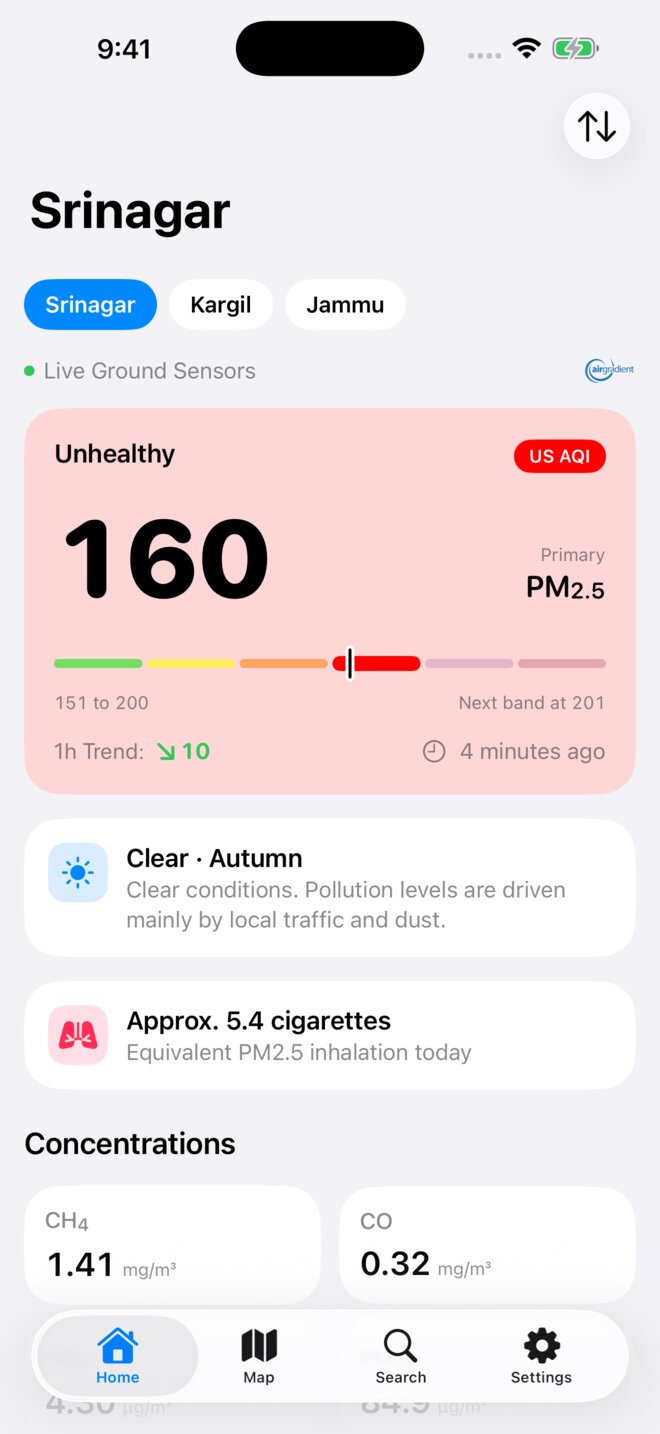
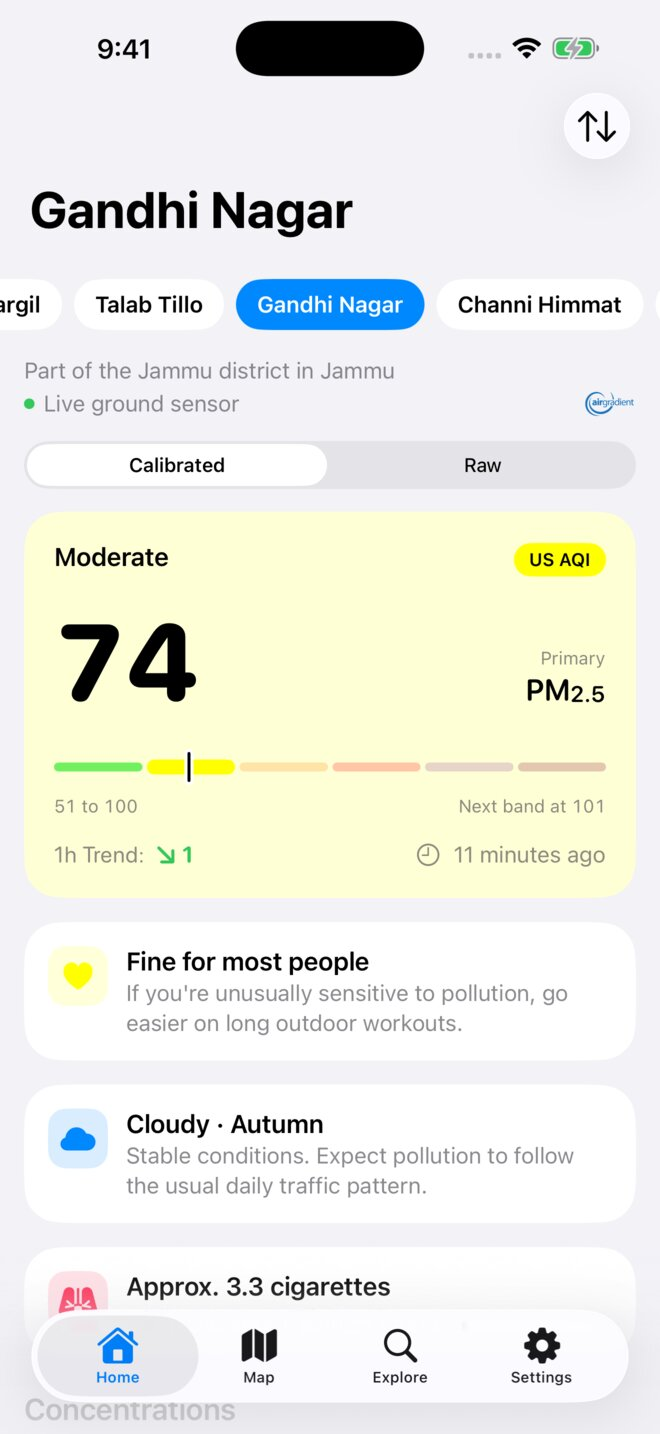
breathe-ios: docs: refresh readme for sensor zones and raw readings
- six new shots from the simulator run

diff --git a/README.md b/README.md
@@ -11,6 +11,8 @@
   <img src="assets/screenshot-2.jpg" alt="Screenshot 2" width="200" style="border-radius:26px;"/>
   <img src="assets/screenshot-3.jpg" alt="Screenshot 3" width="200" style="border-radius:26px;"/>
   <img src="assets/screenshot-4.jpg" alt="Screenshot 4" width="200" style="border-radius:26px;"/>
+  <img src="assets/screenshot-5.jpg" alt="Screenshot 5" width="200" style="border-radius:26px;"/>
+  <img src="assets/screenshot-6.jpg" alt="Screenshot 6" width="200" style="border-radius:26px;"/>
 </p>
 
 > **Note:** This repository is specifically for the **iOS** version of Breathe. If you are looking for the original Android version, please visit the [Breathe (Android) repository](https://github.com/breathe-OSS/breathe).
@@ -30,10 +32,11 @@
 - **Native iOS design** with cards, Dynamic Type, and light and dark mode
 - **US AQI and Indian NAQI**, switchable in Settings
 - **Segmented AQI gauge** with a guide to what every band means
-- **Live ground sensors**, with every sensor in a zone listed, offline ones included
+- **Every sensor is its own place**, listed by district and division in Explore
+- **Raw readings** from the sensors before AirGradient's correction, switchable everywhere including the widget
 - **24 hour trend and hourly charts** you can drag across to read any hour
-- **Extended history** with weather filters, WHO guideline lines and a calendar view
-- **Map** of every zone and sensor, grouped when zoomed out
+- **Extended history** for AQI, PM2.5, PM10, temperature and humidity, calibrated, raw or both, with time in each category, an hour of day chart, weather filters and sensor comparison
+- **Map** of every sensor, grouped when zoomed out, with a full overview sheet for each place
 - **Swipe between pinned places**, with context menus and haptics
 - **Cigarette equivalence**
 - **Home screen widgets**
@@ -58,14 +61,15 @@ Breathe/
 ├── Networking/
 │   └── BreatheAPI.swift        # API client, shared with the widget
 ├── Util/
-│   ├── SensorPoints.swift      # Sensor positions for the map
+│   ├── HistoryAnalysis.swift   # Bucketing, summaries and sensor comparison
+│   ├── Places.swift            # Districts, raw readings and health advice
 │   ├── ShotHooks.swift         # DEBUG only launch arguments for CI screenshots
 │   ├── Theme.swift             # AQI palette, bands and card style
 │   └── WeatherHistory.swift    # Weather filters for extended history
 ├── ViewModel/
 │   └── BreatheViewModel.swift
 └── Views/
-    ├── HomeView.swift          # Home, hero card, concentrations, sensors
+    ├── HomeView.swift          # Home, hero card, concentrations, about the sensor
     ├── AqiGauge.swift          # Segmented gauge and band guide
     ├── GraphView.swift         # 24 hour trend chart
     ├── DotHistoryView.swift    # Hourly bars
@@ -73,8 +77,8 @@ Breathe/
     ├── ExtendedDotGrid.swift   # Calendar view of extended history
     ├── ChartComponents.swift
     ├── NodeReadingCard.swift   # Sensor cards and sheet
-    ├── MapView.swift
-    ├── SearchView.swift
+    ├── MapView.swift           # Map and the overview sheet for a place
+    ├── SearchView.swift        # Explore
     ├── SettingsView.swift
     ├── DataSourcesView.swift
     ├── HomeOverviewViews.swift # Welcome screen and pinned overview
